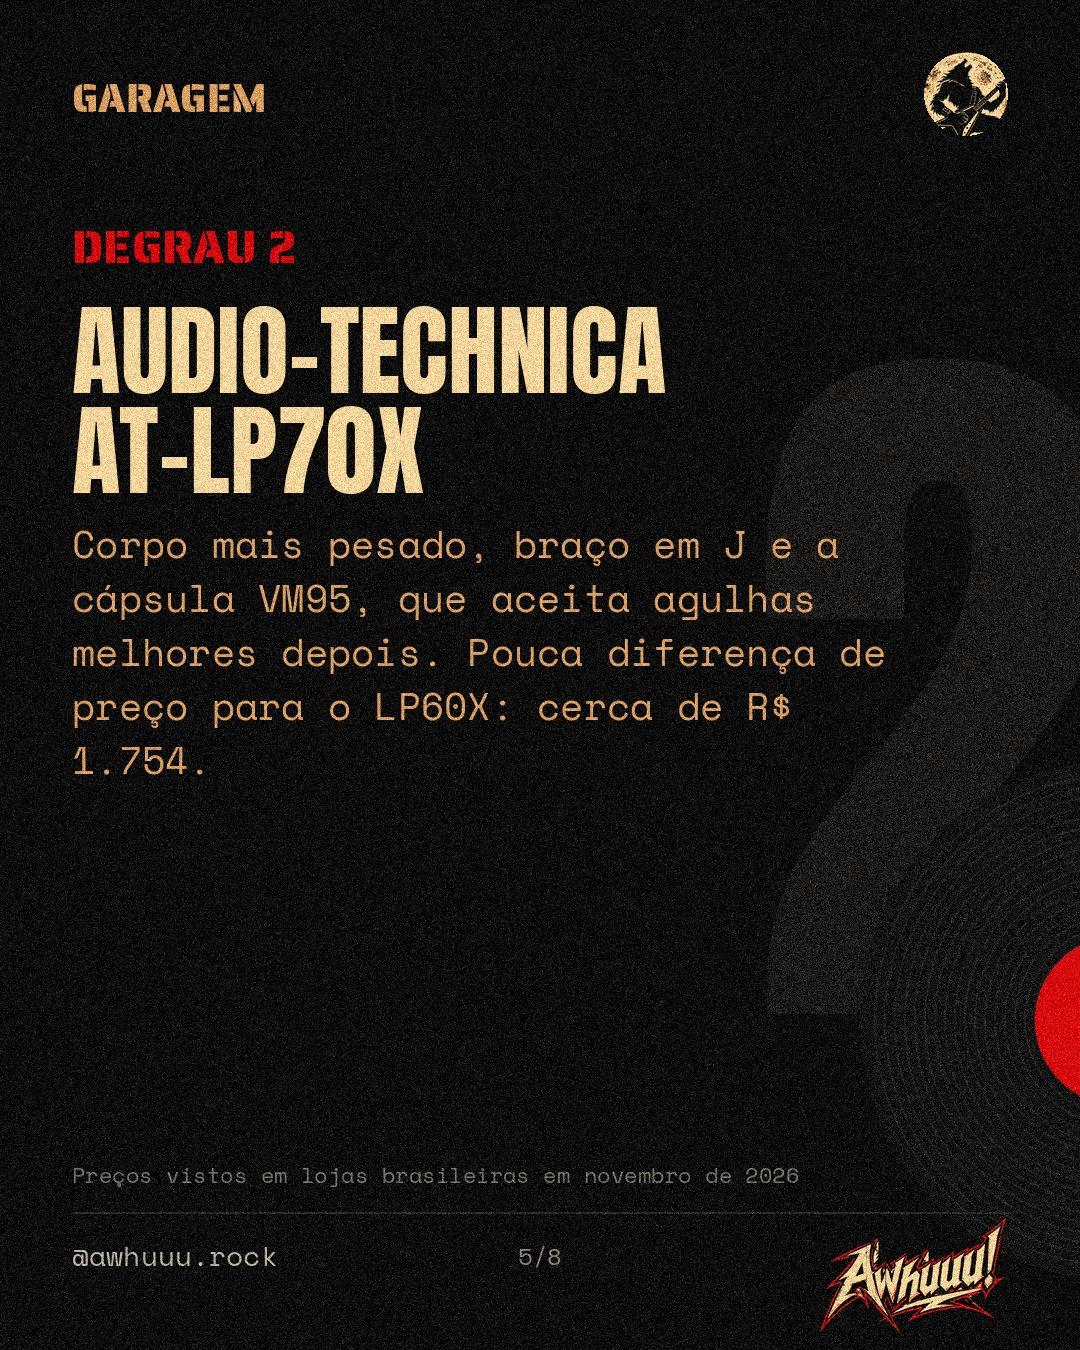
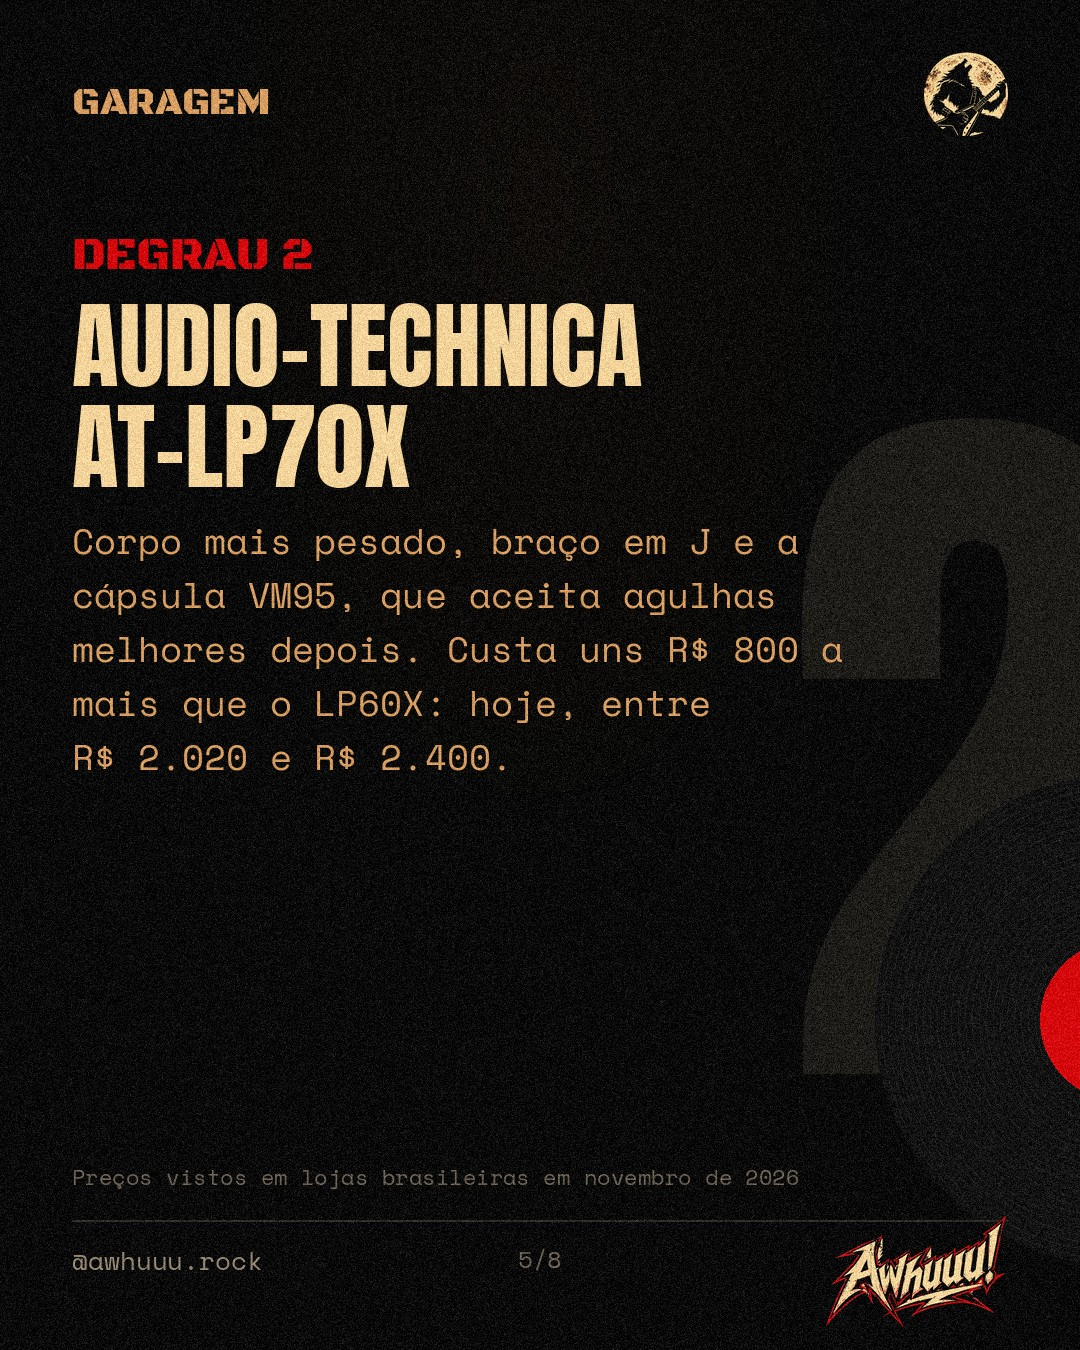
Garagem: guia de toca-discos reescrito no padrão da casa (preços de 28/11), carrossel com preços novos
Claude-Session: https://claude.ai/code/session_014ktVYRz6jQgciewb54Tcx8

diff --git a/src/materias/toca-discos-para-comecar.md b/src/materias/toca-discos-para-comecar.md
@@ -2,36 +2,57 @@
 title: "Toca-discos para começar: o que comprar sem estragar seus discos"
 editoria: garagem
 numero: 1
+assina: lobo
 date: 2026-12-03T20:00:00-03:00
-resumo: "Do primeiro toca-discos honesto ao que dura a vida toda, com preço de loja brasileira. E por que a maleta bonitinha é a pior porta de entrada."
+resumo: "Do primeiro toca-discos honesto ao que dura a vida toda, com preço de loja brasileira na semana da Black Friday. E por que a maleta bonitinha é a porta de entrada mais cara."
 capa: /img/capas/garagem.webp
 capa_alt: "Ilustração de um lobisomem de jaqueta de couro numa garagem à noite, pondo um disco no toca-discos entre amplificadores, com a lua cheia na porta"
 ficha:
   - campo: Para quem
-    valor: quem vai comprar o primeiro toca-discos
+    valor: quem vai comprar o primeiro toca-discos, ou dar um de presente
   - campo: Faixa de preço
-    valor: de uns R$ 1.200 a uns R$ 3.900, mais as caixas de som
+    valor: de uns R$ 1.190 a uns R$ 3.900, mais as caixas de som
+  - campo: A regra
+    valor: cápsula magnética, agulha de diamante trocável, saída por cabo
   - campo: Preços vistos em
-    valor: novembro de 2026 (mudam toda semana; confira na loja)
+    valor: 28 de novembro de 2026, semana da Black Friday (mudam toda semana; confira na loja)
 acervo:
   imagem: "/img/lobo/lobo-toca-discos.webp"
   alt: "Ilustração de um lobisomem de jaqueta de couro tirando um toca-discos novo da caixa, com caixas de som e um caixote de discos ao lado, sob a lua cheia"
   legenda: "O lobo e o primeiro toca-discos. Ilustração do Awhuuu!"
 fontes:
-  - nome: "Vitrola de maleta estraga o disco de vinil? — Canaltech"
+  - nome: "Vitrola de maleta estraga o disco de vinil? Veja o que dizem especialistas — Canaltech"
     url: "https://canaltech.com.br/produtos/vitrola-de-maleta-estraga-o-disco-de-vinil-veja-o-que-dizem-especialistas"
   - nome: "Vitrola de maleta é ruim mesmo? Comparei com toca-discos JBL — Canaltech"
     url: "https://canaltech.com.br/produtos/vitrola-de-maleta-e-ruim-mesmo-comparei-com-toca-discos-jbl-e-entendi-o-problema/"
-  - nome: "AT-LP70X vs. AT-LP60X — Turntable Lab"
-    url: "https://turntablelab.com/products/audio-technica-at-lp70x-automatic-turntable"
-  - nome: "AT-LP70X review — Gear Patrol"
-    url: "https://www.gearpatrol.com/audio/audio-technica-at-lp70x-turntable/"
+  - nome: "When to use the ATN3600L (agulha do AT-LP60X, força de apoio fixa de 3,5 g) — Audio-Technica"
+    url: "https://audio-technica.com/en-gb/support/when-to-use-the-atn3600l"
+  - nome: "AT-VM95E, especificações (força de apoio de 1,8 a 2,2 g) — Audio-Technica"
+    url: "https://audio-technica.com/en-gb/at-vm95e"
+  - nome: "ATN3600LC, agulha de reposição: vida útil de 300 a 500 horas — B&H"
+    url: "https://www.bhphotovideo.com/c/product/1850251-REG/audio_technica_atn3600lc_replacement_stylus_for.html"
+  - nome: "How do I set up the AT-LP60X turntable? (chave PHONO/LINE) — Audio-Technica"
+    url: "https://audio-technica.com/en-us/support/audio-solutions-question-of-the-week-how-do-i-set-up-the-at-lp60x-turntable"
   - nome: "Catálogo de toca-discos Audio-Technica Brasil (abril de 2024)"
     url: "https://docs.audio-technica.com/us/Vol8.Toca-Discos_2024-abril.pdf"
   - nome: "Ficha técnica JBL Spinner BT (PT-BR) — Harman"
     url: "https://support.harmanaudio.com/on/demandware.static/-/Sites-masterCatalog_Harman/default/dw9d1575cf/pdfs/JBL%20Spinner%20BT_%20Specsheet_PTBR%20(1).pdf"
-  - nome: "AT-LP60X — menor preço no Buscapé"
-    url: "https://www.buscape.com.br/toca-discos/toca-discos-vinil-audio-technica-automatico-at-lp60x-bk-preto"
+  - nome: "Toca-discos Multi Berry Retrô Suitcase SP364, especificações (cápsula de cerâmica, agulha de rubi) — KaBuM"
+    url: "https://www.kabum.com.br/produto/154433/toca-discos-multi-berry-retro-suitcase-bluetooth-usb-funcao-auto-stop-sp364"
+  - nome: "Mercado fonográfico brasileiro ultrapassa marca dos R$ 3 bilhões (vinil em 2024) — Meio & Mensagem, março de 2025"
+    url: "https://www.meioemensagem.com.br/midia/mercado-fonografico"
+  - nome: "Mercado fonográfico brasileiro cresce 14% em 2025 (físico +25,6%) — Estadão Conteúdo, no Diário do Comércio, março de 2026"
+    url: "https://diariodocomercio.com.br/economia/mercado-fonografico-brasileiro-cresce-14-em-2025-e-fatura-r-4-bilhoes-aponta-relatorio/"
+  - nome: "Entenda o boom do vinil (as três fábricas brasileiras) — Billboard Brasil"
+    url: "https://billboard.com.br/entenda-o-boom-do-vinil/"
+  - nome: "Salvem o Vinil (a Polysom ameaçada de fechar) — Rolling Stone Brasil"
+    url: "https://rollingstone.com.br/artigo/salvem-o-vinil/"
+  - nome: "Discos de vinil: uma paixão antiga agora por LPs novos (a compra da Polysom em 2009) — Tecnoblog"
+    url: "https://tecnoblog.net/especiais/discos-de-vinil/"
+  - nome: "Fora da Faria (vinil passa de US$ 1 bilhão nos EUA em 2025, primeira vez desde 1983) — CartaCapital"
+    url: "https://www.cartacapital.com.br/?p=597825"
+  - nome: "Discos de vinil atraem novos ouvintes (fala de João Augusto, da Polysom) — Diário do Pará"
+    url: "https://diariodopara.com.br/entretenimento/voce/discos-de-vinil-atraem-novos-ouvintes/"
 achados:
   - nome: "Audio-Technica AT-LP60X (Mercado Livre)"
     url: "https://meli.la/25XQa2r"
@@ -61,75 +82,117 @@ achados:
   - nome: "JBL Spinner BT (Amazon)"
     url: "https://www.amazon.com.br/dp/B0CYHJHN9R?tag=awhuuu-20"
     imagem: "https://m.media-amazon.com/images/I/61YEM74AYEL._SL500_.jpg"
-  - nome: "Caixas Edifier R1280T (Mercado Livre)"
-    url: "https://meli.la/1Yqh65s"
-  - nome: "Caixas Edifier R1280T (Magalu)"
-    url: "https://www.magazinevoce.com.br/magazineawhuuu/caixa-de-som-42w-rms-bivolt-para-home-audio-r1280t-edifier-madeira/p/hf8864b3e3/ea/cxsm/"
   - nome: "Caixas Edifier R1280T (Amazon)"
     url: "https://www.amazon.com.br/dp/B00GBN50SC?tag=awhuuu-20"
     imagem: "https://m.media-amazon.com/images/I/71o5w0ZfptL._SL500_.jpg"
-  - nome: "Caixas Edifier R1280DB (Mercado Livre)"
-    url: "https://meli.la/1JGJmRK"
+  - nome: "Caixas Edifier R1280T (Magalu)"
+    url: "https://www.magazinevoce.com.br/magazineawhuuu/caixa-de-som-42w-rms-bivolt-para-home-audio-r1280t-edifier-madeira/p/hf8864b3e3/ea/cxsm/"
   - nome: "Caixas Edifier R1280DB (Magalu)"
     url: "https://www.magazinevoce.com.br/magazineawhuuu/caixa-de-som-monitor-de-audio-r1280db-bluetooth-bivolt-42w-rms-edifier-madeira/p/bba8f282jd/in/mnpc/"
   - nome: "Caixas Edifier R1280DB (Amazon)"
     url: "https://www.amazon.com.br/dp/B01NCTGH9M?tag=awhuuu-20"
     imagem: "https://m.media-amazon.com/images/I/71uns38a7BL._SL500_.jpg"
+  - nome: "Caixas Edifier R1280DB (Mercado Livre)"
+    url: "https://meli.la/1JGJmRK"
 pergunta: "Qual foi o seu primeiro toca-discos? E ele sobreviveu?"
 ---
 
-Todo mundo que volta pro vinil passa pela mesma vitrine: uma maleta retrô, cor de cereja, com caixinha de som embutida, por menos de mil reais. É bonita. E é o jeito mais caro de começar, porque você vai trocar de aparelho em seis meses e, até lá, seus discos pagam a conta.
+Toda feira de vinil tem a mesma cena. Alguém chega com um disco novo debaixo do braço, ainda no plástico, comprado na banca do lado, e pergunta ao vendedor se vai tocar bem na vitrola que ganhou de aniversário. A vitrola é uma maleta retrô, cor de cereja, com alça de couro sintético e caixinha de som embutida na frente. O vendedor faz uma cara que todo mundo que mexe com disco conhece. Não diz nada. Pega o próximo.
 
-Este guia tem três degraus. Todos tocam disco direito. A diferença é quanto você quer crescer depois.
+Este guia é o que ele não disse. A maleta é bonita, é barata e é o jeito mais caro de começar, porque você vai trocar de aparelho em seis meses e, até lá, seus discos pagam a conta. A regra que serve para qualquer orçamento cabe numa frase: **compre a agulha, não o móvel.** O resto é escolher quanto você quer crescer depois.
 
 ## Antes de tudo: fuja da maleta
 
-O problema da maleta não é a cara, é a agulha. A maioria usa cápsula de cerâmica, que precisa apoiar mais peso no sulco, e o braço não tem contrapeso para você regular essa força. O som sai de alto-falantes colados no prato, que tremem junto com o disco.
+O problema da maleta não é a cara, é o que fica na ponta do braço. A maioria usa cápsula de cerâmica. Na ficha de uma maleta vendida em loja grande, a Multi Berry Retrô, está escrito sem rodeio: cápsula de cerâmica, agulha de rubi. Diamante é o material que aguenta o atrito do sulco por centenas de horas; o resto gasta mais rápido, e gasta o disco junto.
 
-Uma tocada não destrói um LP. O estrago é de desgaste: centenas de audições com peso demais, e o chiado vai chegando. Se você já tem uma, não precisa jogar fora. Só não compre os discos que você ama pensando nela.
+O braço dessas maletas não tem contrapeso para você regular quanto a agulha apoia no disco, e o som sai de alto-falantes colados no prato, que tremem junto com o vinil. O Canaltech pôs uma maleta lado a lado com um toca-discos de verdade e a conclusão foi a que o vendedor da feira já sabia: discos novos, de 180 gramas, chegavam a pular na maleta.
 
-O que procurar no lugar:
+Uma tocada não destrói um LP. O estrago é de desgaste, audição após audição, e o chiado vai chegando. Se você já tem uma maleta, não precisa jogar fora: use para os discos de feira de cinco reais. Só não compre o disco que você ama pensando nela.
+
+{% box "Pra entender: as cinco palavras da caixa" %}
+- **Cápsula:** a peça na ponta do braço que transforma o movimento da agulha em sinal elétrico. Magnética é o que você quer; cerâmica é o que vem na maleta.
+- **Agulha:** a pontinha que corre no sulco. A boa é de diamante e se troca sozinha, sem trocar a cápsula.
+- **Força de apoio:** quantos gramas a agulha pesa no disco. Cada cápsula tem a sua faixa certa; fora dela, ou a agulha pula, ou gasta o sulco.
+- **Pré-amplificador (PHONO/LINE):** o sinal do toca-discos sai fraquinho. Com o pré embutido, você põe a chave em LINE e liga direto em caixa ativa.
+- **Correia ou tração direta:** na correia, o motor gira o prato por um elástico, e é silencioso. Na tração direta, o motor fica embaixo do prato, liga rápido e segura a rotação. Os dois tocam bem.
+{% endbox %}
+
+O que procurar no lugar da maleta, em três itens:
 
 - **Cápsula magnética**, com agulha de diamante que se troca sozinha.
 - **Pré-amplificador embutido** (aparece como "phono preamp" ou chave PHONO/LINE). Com ele você liga direto em caixa ativa, sem aparelho no meio.
-- **Saída por cabo**, mesmo que tenha Bluetooth. O fio sempre soa melhor.
+- **Saída por cabo**, mesmo que tenha Bluetooth. O fio sempre soa melhor, e não depende da bateria de ninguém.
 
 ## Degrau 1: o primeiro honesto
 
-**Audio-Technica AT-LP60X.** O toca-discos de entrada que mais aparece nas listas de recomendação, e com razão: automático (aperta um botão, o braço desce e volta sozinho), cápsula magnética, agulha trocável e pré-amplificador embutido. Quando esta matéria foi escrita, saía por volta de **R$ 1.190 a R$ 1.400** nas grandes lojas.
+**Audio-Technica AT-LP60X.** O toca-discos de entrada que mais aparece nas listas de recomendação, e com razão: automático (aperta um botão, o braço desce e volta sozinho), cápsula magnética, agulha de diamante trocável e pré-amplificador embutido. Na semana da Black Friday estava entre **R$ 1.186** (Amazon) e **R$ 1.349** (Magalu, no Pix), com o Mercado Livre no meio, a R$ 1.258 no Pix. A versão vendida aqui é bivolt, de 120 a 240 volts: um problema a menos na hora de ligar.
 
-O que ele não faz: você não ajusta o peso da agulha nem troca a cápsula por uma melhor. É um aparelho para tocar disco bem, não para evoluir.
+{% produto "Audio-Technica AT-LP60X", "https://www.amazon.com.br/dp/B07N3XJ66N?tag=awhuuu-20", "https://m.media-amazon.com/images/I/71DflzPLBCL._SL500_.jpg", "O primeiro toca-discos que toca disco direito: automático, cápsula magnética e pré embutido." %}
+
+Montar é coisa de dez minutos: encaixar a correia no motor, girar o prato, tirar a trava do braço e a capinha da agulha, escolher a chave LINE se for ligar em caixa ativa. A própria Audio-Technica mostra o passo a passo.
+
+{% video "https://www.youtube.com/watch?v=NkZ0GROJ4t4", "Como montar o AT-LP60X, da correia à chave PHONO/LINE", "canal oficial da Audio-Technica USA" %}
+
+O que ele não faz, e aqui está o detalhe que quase ninguém conta na loja: o LP60X vem com o braço regulado de fábrica para uma agulha só. A força de apoio é fixa em 3,5 gramas, e não há contrapeso para mudar isso. Você pode trocar a agulha gasta por outra igual, ou pela versão elíptica feita para o mesmo peso, mas não pode subir para uma agulha de outra linha.
+
+{% citacao "A força de apoio pré-ajustada seria demais para elas, o que danificaria a agulha.", "Audio-Technica, sobre usar outras agulhas no AT-LP60X", "página de suporte da fabricante", "https://audio-technica.com/en-gb/support/when-to-use-the-atn3600l" %}
+
+Ou seja: é um aparelho para tocar disco bem, não para evoluir. A agulha de reposição dura de 300 a 500 horas, segundo a ficha da peça. Para quem ouve um lado de disco por noite, isso dá alguns anos. Quando gastar, troque: agulha velha é o jeito mais silencioso de estragar uma coleção.
 
 ## Degrau 2: o que cresce com você
 
-**Audio-Technica AT-LP70X.** O degrau acima do LP60X, sem mudar o jeito de usar. Corpo mais pesado (vibra menos), braço mais longo em formato de J e a cápsula VM95, que aceita agulhas melhores quando você quiser subir de nível. Também é automático e tem pré-amplificador. No Mercado Livre, a versão sem Bluetooth estava por **R$ 1.754**, pouca diferença para o LP60X.
+**Audio-Technica AT-LP70X.** O degrau acima do LP60X, sem mudar o jeito de usar. Corpo mais pesado (vibra menos), braço mais longo em formato de J e a cápsula da série VM95, que trabalha com uns 2 gramas de força de apoio, contra os 3,5 do LP60X, e aceita as agulhas melhores da mesma família quando você quiser subir de nível. Também é automático e tem pré-amplificador.
 
-Se der para esticar até aqui, estique. É a compra que você não vai querer trocar tão cedo.
+O preço é que mudou de figura. Quando a primeira versão deste guia foi escrita, no começo de novembro, ele saía por R$ 1.754 no Mercado Livre, pouco mais que o LP60X. Na semana da Black Friday, a diferença abriu: **R$ 2.019** na Amazon, R$ 2.251 no Mercado Livre e R$ 2.394 no Magalu, no Pix. Uns R$ 800 a mais que o degrau 1.
+
+{% produto "Audio-Technica AT-LP70X", "https://meli.la/1wMQDcj", "https://m.media-amazon.com/images/I/5154XhR-8WL._SL500_.jpg", "O automático que deixa a porta aberta para uma agulha melhor no futuro." %}
+
+Vale? Vale se você já sabe que o vinil veio para ficar e quer comprar uma vez só. Se ainda está descobrindo se é isso mesmo, o LP60X com um bom par de caixas soa melhor do que o LP70X ligado na caixinha de som do celular. Dinheiro de som se gasta primeiro onde o som sai.
 
 ## Degrau 3: o ritual completo
 
-**Audio-Technica AT-LP120XUSB.** Tração direta, braço manual com contrapeso e anti-skating, controle de velocidade, saída USB para digitalizar seus discos. Estava entre **R$ 3.240** (Amazon) e **R$ 3.900** (Mercado Livre).
+**Audio-Technica AT-LP120XUSB.** Tração direta, braço manual com contrapeso e anti-skating, controle de velocidade e saída USB para digitalizar seus discos no computador. Estava entre **R$ 3.234** (Amazon) e **R$ 3.899** (Mercado Livre). É o toca-discos que você regula: põe o contrapeso, acerta a força de apoio na marca, ajusta o anti-skating. Dá trabalho uma vez e depois vira gesto.
 
-Outra opção manual, mais bonita na estante: **JBL Spinner BT**, com prato e braço de alumínio, cápsula magnética já alinhada de fábrica, pré-amplificador e Bluetooth aptX HD. Visto entre **R$ 2.950** (Amazon) e **R$ 3.400**.
+{% video "https://www.youtube.com/watch?v=eXcgF2SY35Q", "Montando o AT-LP120XUSB: contrapeso, força de apoio e anti-skating", "canal oficial da Audio-Technica USA" %}
 
-Por que manual? Porque você mesmo desce o braço até o disco. Dá mais trabalho, e é exatamente esse o gesto que faz parte da graça.
+Outra opção manual, mais bonita na estante: **JBL Spinner BT**, com prato e braço de alumínio, cápsula magnética já alinhada de fábrica, pré-amplificador e Bluetooth aptX HD. Visto entre **R$ 2.960** (Amazon) e **R$ 3.599** (Mercado Livre), com o Magalu a R$ 3.400.
+
+Por que manual? Porque você mesmo desce o braço até o disco. É o tipo de gesto que o streaming tirou da gente: escolher o lado, esperar a agulha encostar, ouvir o primeiro estalo antes da música. Quem compra toca-discos em 2026 está comprando, em boa parte, esse gesto.
+
+## Por que tanta gente está voltando
+
+Não é impressão sua. Em 2024, o vinil faturou R$ 16 milhões no Brasil, alta de 45,6% sobre o ano anterior, e foi pelo segundo ano seguido o formato físico mais vendido do país, segundo o relatório da Pró-Música. Em 2025, as vendas físicas cresceram mais 25,6%, de novo puxadas pelo vinil. É pouco perto do streaming, que paga quase tudo, mas é o único formato físico que cresce. Nos Estados Unidos, o vinil passou de 1 bilhão de dólares em 2025, coisa que não acontecia desde 1983.
+
+E o disco que você vai pôr no prato provavelmente foi prensado aqui. O Brasil tem hoje três fábricas: a Polysom e a Rocinante, no Rio, e a Vinil Brasil, em São Paulo. A Polysom, em Belford Roxo, já foi a única fábrica de vinil do país. Faliu em 2007, foi comprada em 2009 e hoje relança clássicos brasileiros na série Clássicos em Vinil. O Krig-ha, Bandolo! que virou [a primeira Pedrada do Dia](/pedrada-do-dia/krig-ha-bandolo/) saiu nessa série.
+
+{% video "https://www.youtube.com/watch?v=HnFW4QUmwsM", "Dentro da Polysom, a fábrica de discos de Belford Roxo", "canal oficial da Polysom" %}
+
+{% citacao "O vinil deixou de ser aquela coisa de colecionadores e DJs, a geração Z adora ele.", "João Augusto, presidente da gravadora Deck, que assumiu a Polysom em 2009", "ao Diário do Pará", "https://diariodopara.com.br/entretenimento/voce/discos-de-vinil-atraem-novos-ouvintes/" %}
+
+Gente nova chegando ao vinil é ótimo. O risco é que muita dessa gente chega pela maleta, porque é ela que aparece na vitrine e no anúncio. Este guia existe para que a primeira experiência não seja um disco pulando.
 
 ## E o usado?
 
-Toca-discos antigo de marca boa, revisado, pode ser ótima compra, e muitas vezes mais robusto que um novo de entrada. O risco está na agulha gasta e no braço desregulado: compre de quem revisa e entrega com agulha nova, ou leve alguém que entenda. Usado sem revisão é a maleta de cereja com outra cara.
+Toca-discos antigo de marca boa, revisado, pode ser ótima compra, e muitas vezes é mais robusto que um novo de entrada. O risco está na agulha gasta e no braço desregulado: compre de quem revisa e entrega com agulha nova, ou leve alguém que entenda. Pergunte qual é a cápsula, se a agulha é de diamante e se o aparelho tem pré embutido (os antigos quase nunca têm, e aí você precisa de um pré à parte ou de um receiver com entrada PHONO). Usado sem revisão é a maleta de cereja com outra cara.
 
 ## E o som sai por onde?
 
-Toca-discos não tem caixa de som. Com pré-amplificador embutido, o caminho mais simples é um **par de caixas ativas**. A dupla clássica de entrada é a **Edifier R1280T** (só cabo, perto de **R$ 900**) ou a **R1280DB** (com Bluetooth e entrada óptica, perto de **R$ 1.300**). Duas entradas RCA: o toca-discos fica ligado numa, o computador na outra.
+Toca-discos não tem caixa de som. Com pré-amplificador embutido, o caminho mais simples é um **par de caixas ativas**, que já têm amplificador dentro. A dupla clássica de entrada é da Edifier:
+
+- **R1280T**, só com cabo: **R$ 997** na Amazon, R$ 1.149 no Magalu.
+- **R1280DB**, com Bluetooth e entrada óptica: nesta semana o Magalu estava mais barato que todo mundo, **R$ 1.086 no Pix**, contra R$ 1.423 na Amazon e R$ 1.498 no Mercado Livre.
+
+As duas têm duas entradas RCA: o toca-discos fica ligado numa, o computador ou a TV na outra.
 
 ## A escolha do lobo
 
-Se fosse para gastar uma vez só e não pensar mais no assunto, o lobo iria de **AT-LP70X com as Edifier R1280DB**. O toca-discos custa pouco mais que o LP60X e deixa a porta aberta para uma agulha melhor no futuro. As caixas têm Bluetooth e entrada óptica, então servem também para a TV e para o celular quando o disco descansa.
+Com os preços desta semana, o lobo mudou de ideia. Antes era AT-LP70X com as Edifier R1280DB. Agora, com o LP70X uns R$ 800 acima do LP60X e a R1280DB em promoção no Magalu, a conta que mais rende é **AT-LP60X + Edifier R1280DB**, perto de R$ 2.300 no total. O toca-discos toca direito, e as caixas servem também para a TV e para o celular quando o disco descansa. Se sobrar dinheiro, ele vai para discos.
 
-E a primeira bolacha? Aquela que você tem há anos e nunca ouviu direito.
+Daqui a uns anos, quando a agulha gastar e a vontade de mexer no braço aparecer, aí é a hora do degrau 3. Até lá, o que importa é a primeira bolacha. Aquela que você tem há anos e nunca ouviu direito.
 
 ## Resumo da lua
 
 - **Até R$ 1.500:** AT-LP60X + caixas que você já tiver.
-- **Até R$ 3.000:** AT-LP70X + Edifier R1280T.
+- **Até R$ 2.500:** AT-LP60X + Edifier R1280DB (a escolha do lobo).
+- **Até R$ 3.500:** AT-LP70X + Edifier R1280T ou R1280DB.
 - **Para a vida toda:** AT-LP120XUSB ou JBL Spinner BT + Edifier R1280DB.
